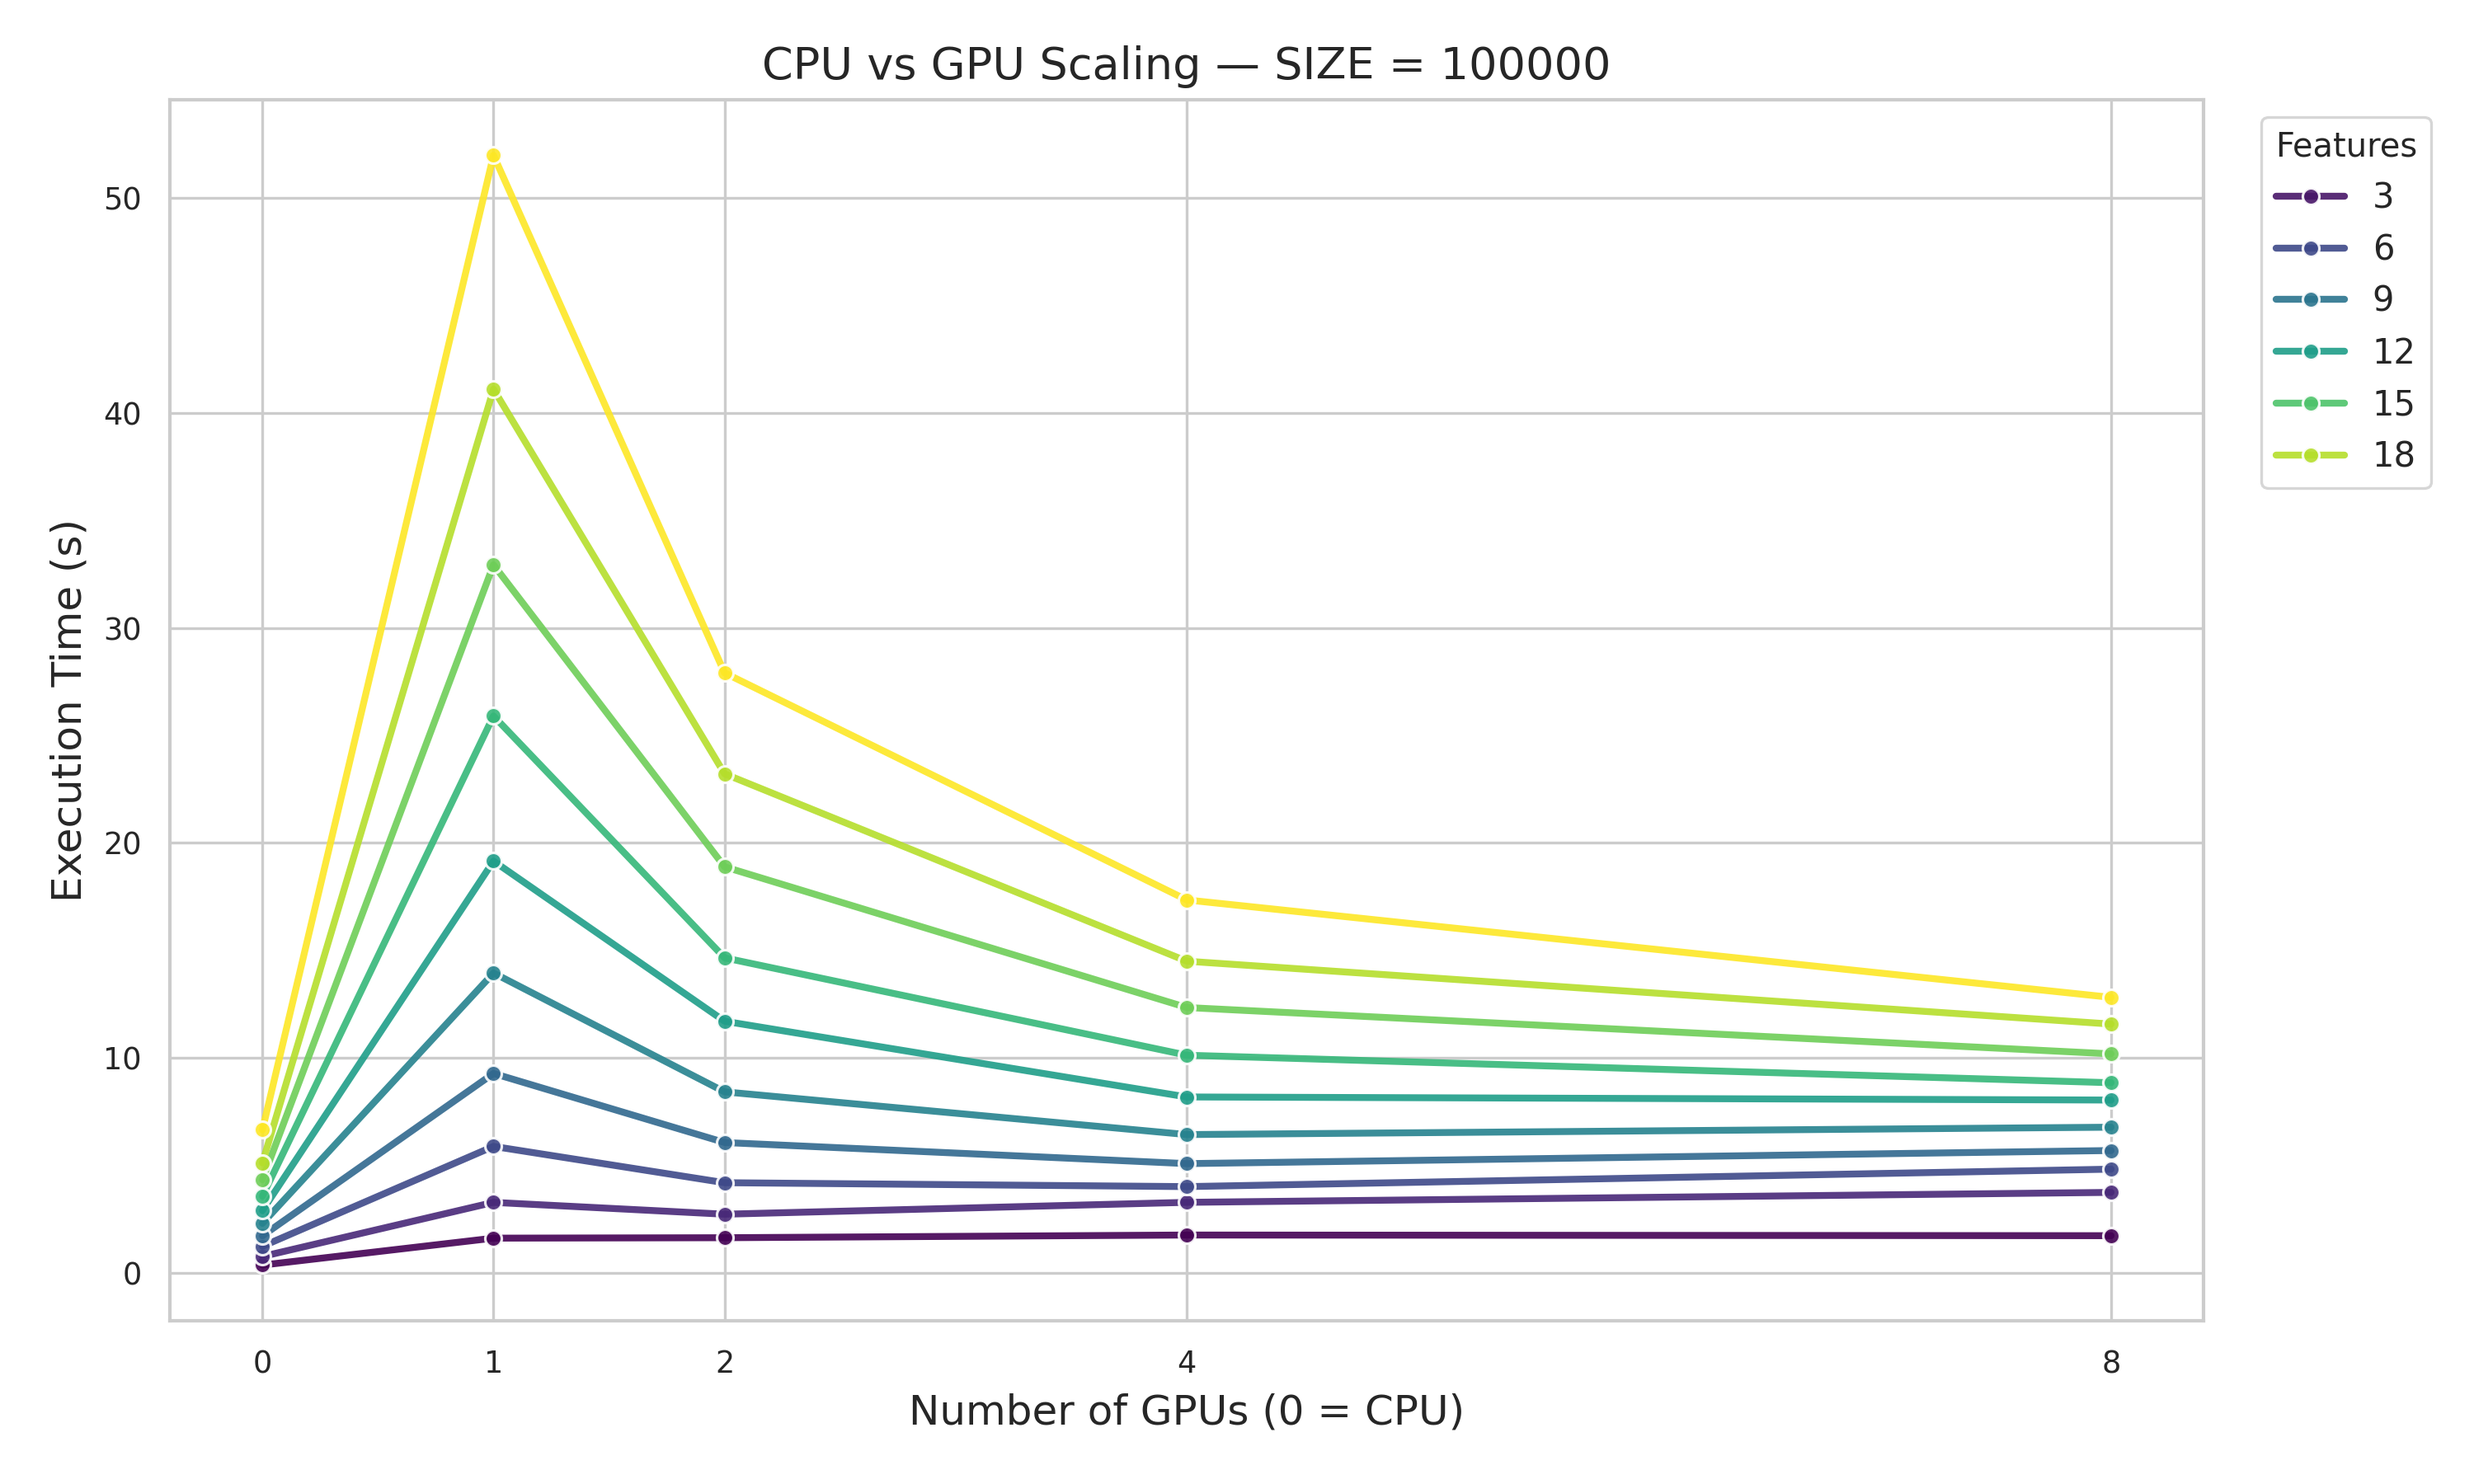
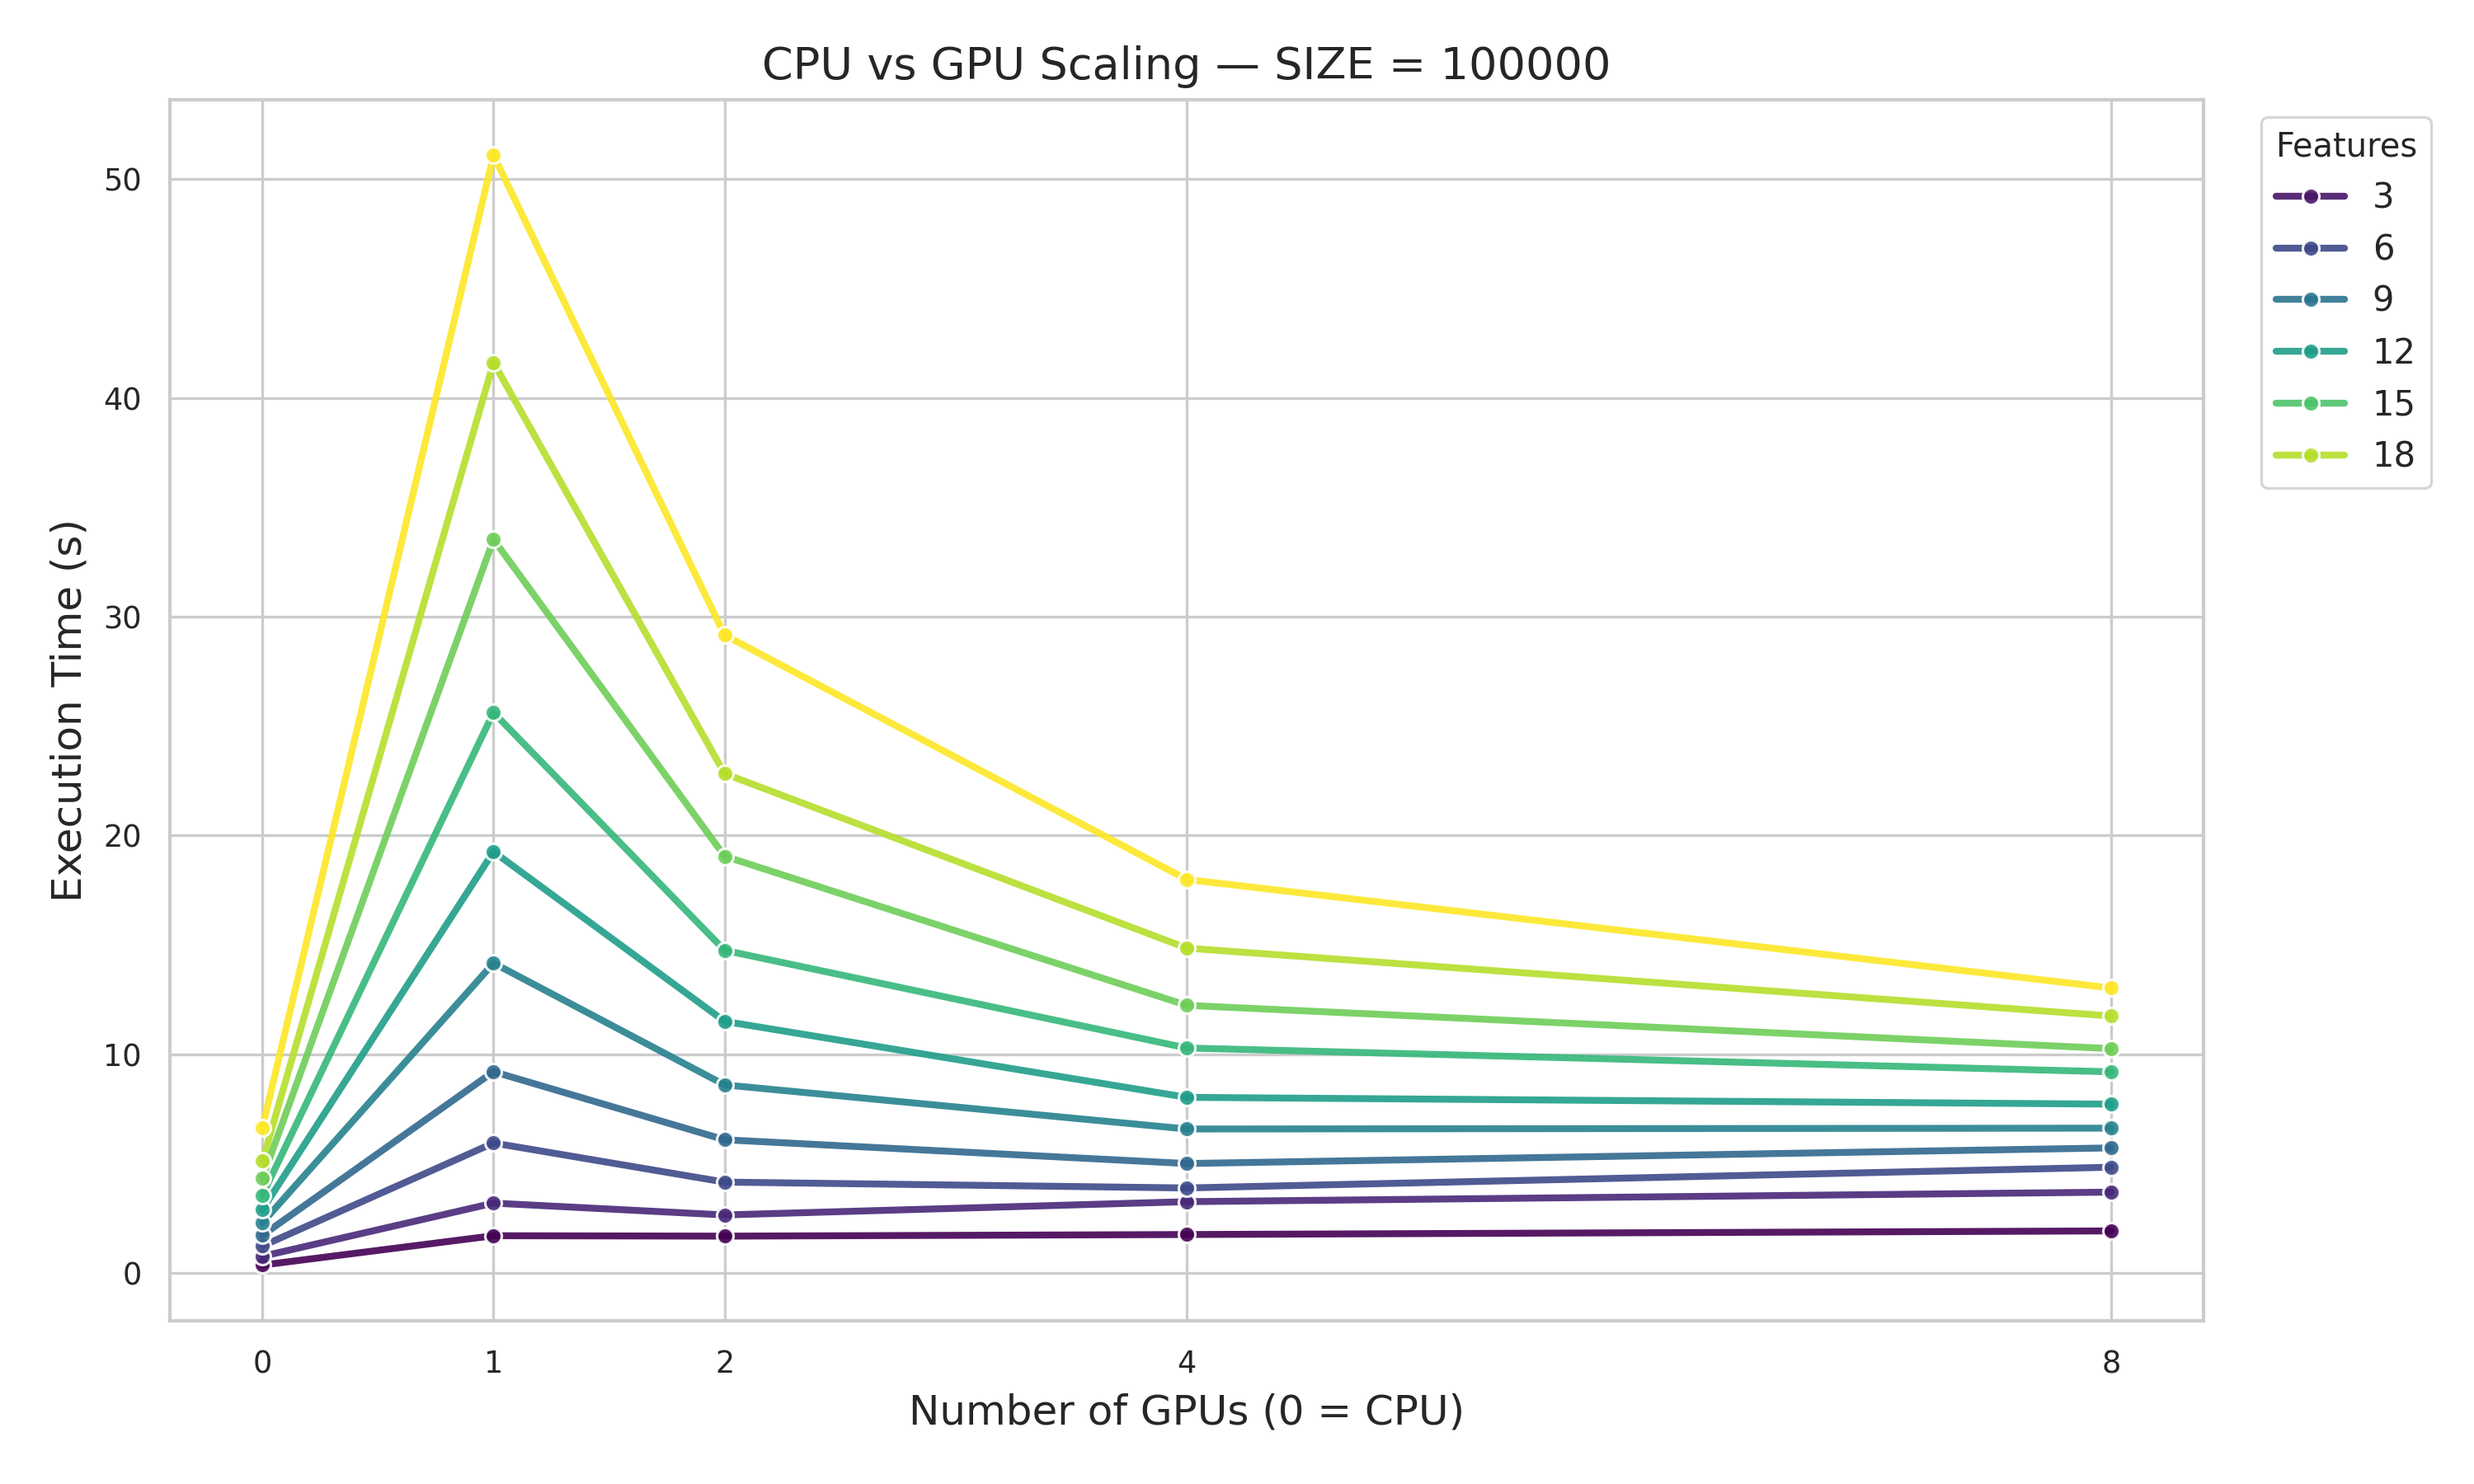
update

diff --git a/logs/graph2.py b/logs/graph2.py
@@ -6,7 +6,7 @@ import seaborn as sns
 
 
 
-# === Plot style settings ===
+# === Plot settings ===
 
 sns.set_theme(style="whitegrid", context="paper")
 
@@ -28,25 +28,25 @@ plt.rcParams.update({
 
 
 
-# === File → GPU count mapping (0 = CPU) ===
+# === File: GPU count mapping ===
 
 files = {
 
     'cpu_ccc_scaling.log': 0,
 
-    '1gpu_ccc_scaling.log': 1,
+    'test_1gpu_ccc_scaling.log': 1,
 
-    '2gpu_ccc_scaling.log': 2,
+    'test_2gpu_ccc_scaling.log': 2,
 
-    '4gpu_ccc_scaling.log': 4,
+    'test_4gpu_ccc_scaling.log': 4,
 
-    '8gpu_ccc_scaling.log': 8,
+    'test_8gpu_ccc_scaling.log': 8,
 
 }
 
 
 
-# === Load all logs and label with GPU count ===
+# === Load and label logs ===
 
 dfs = []
 
@@ -54,13 +54,13 @@ for file, gpu in files.items():
 
     df = pd.read_csv(file, sep=r'\s+', engine='python')
 
-    df['GPUS'] = gpu  # Add GPU count column
+    df['GPUS'] = gpu
 
     dfs.append(df)
 
 
 
-# === Combine all into one DataFrame ===
+# === Combine all logs ===
 
 df = pd.concat(dfs, ignore_index=True)
 
@@ -68,13 +68,25 @@ df.rename(columns={'TIME(s)': 'TIME'}, inplace=True)
 
 
 
-# === Sort for clean plotting ===
+# === Filter: keep only FEATURES that appear for ALL GPU counts (incl. CPU)
+
+required_gpus = {0, 1, 2, 4, 8}
+
+feature_gpu_sets = df.groupby('FEATURES')['GPUS'].apply(set)
+
+common_features = feature_gpu_sets[feature_gpu_sets.apply(lambda s: required_gpus.issubset(s))].index
+
+df = df[df['FEATURES'].isin(common_features)]
+
+
+
+# === Sort data for clean line connections
 
 df = df.sort_values(by=['FEATURES', 'GPUS'])
 
 
 
-# === Plot execution time by GPU count, for each SIZE ===
+# === Plot: one plot per SIZE
 
 for size in sorted(df['SIZE'].unique()):
 
